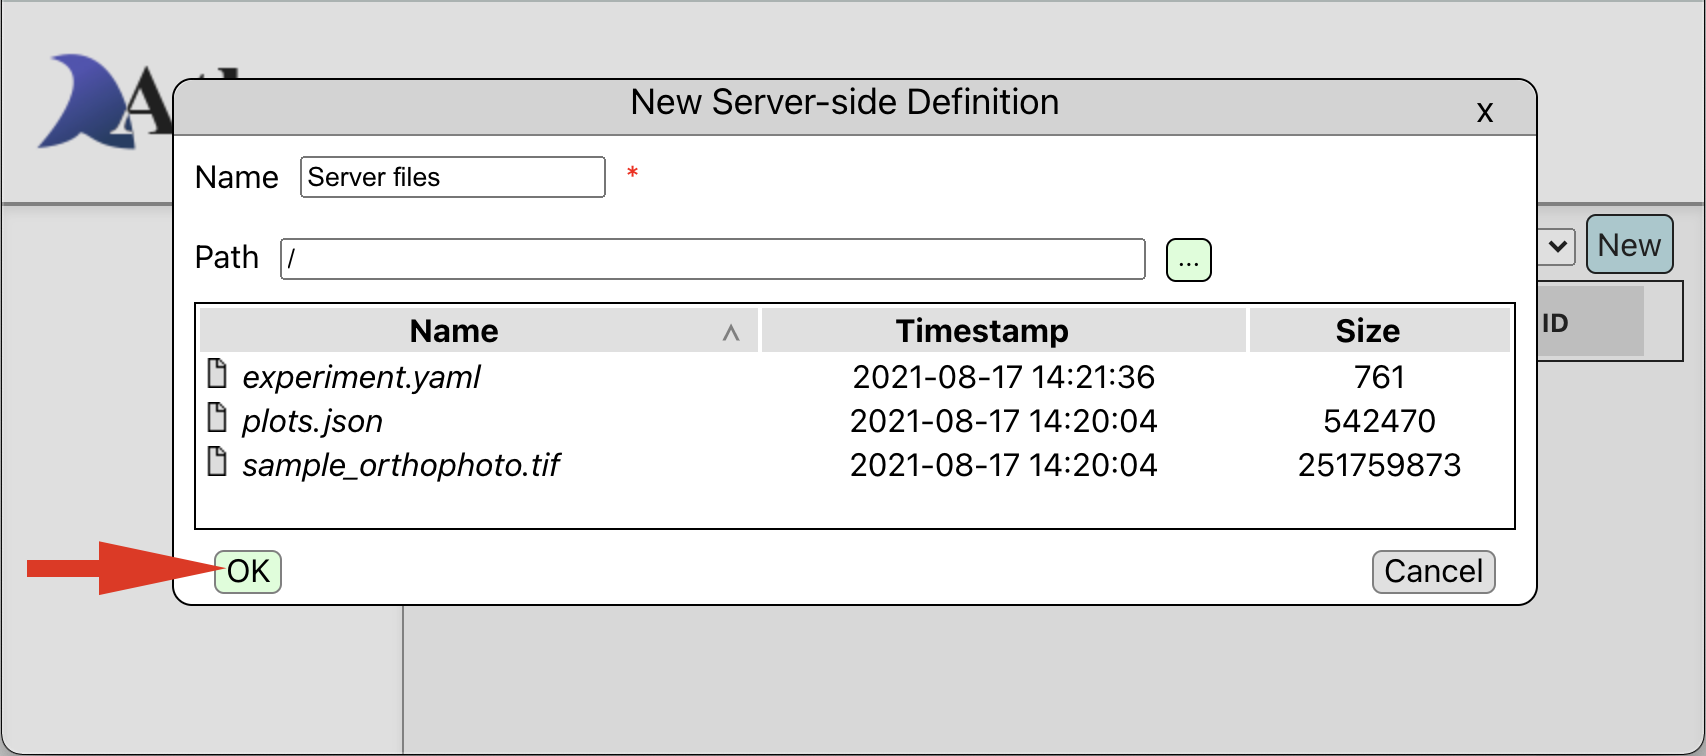
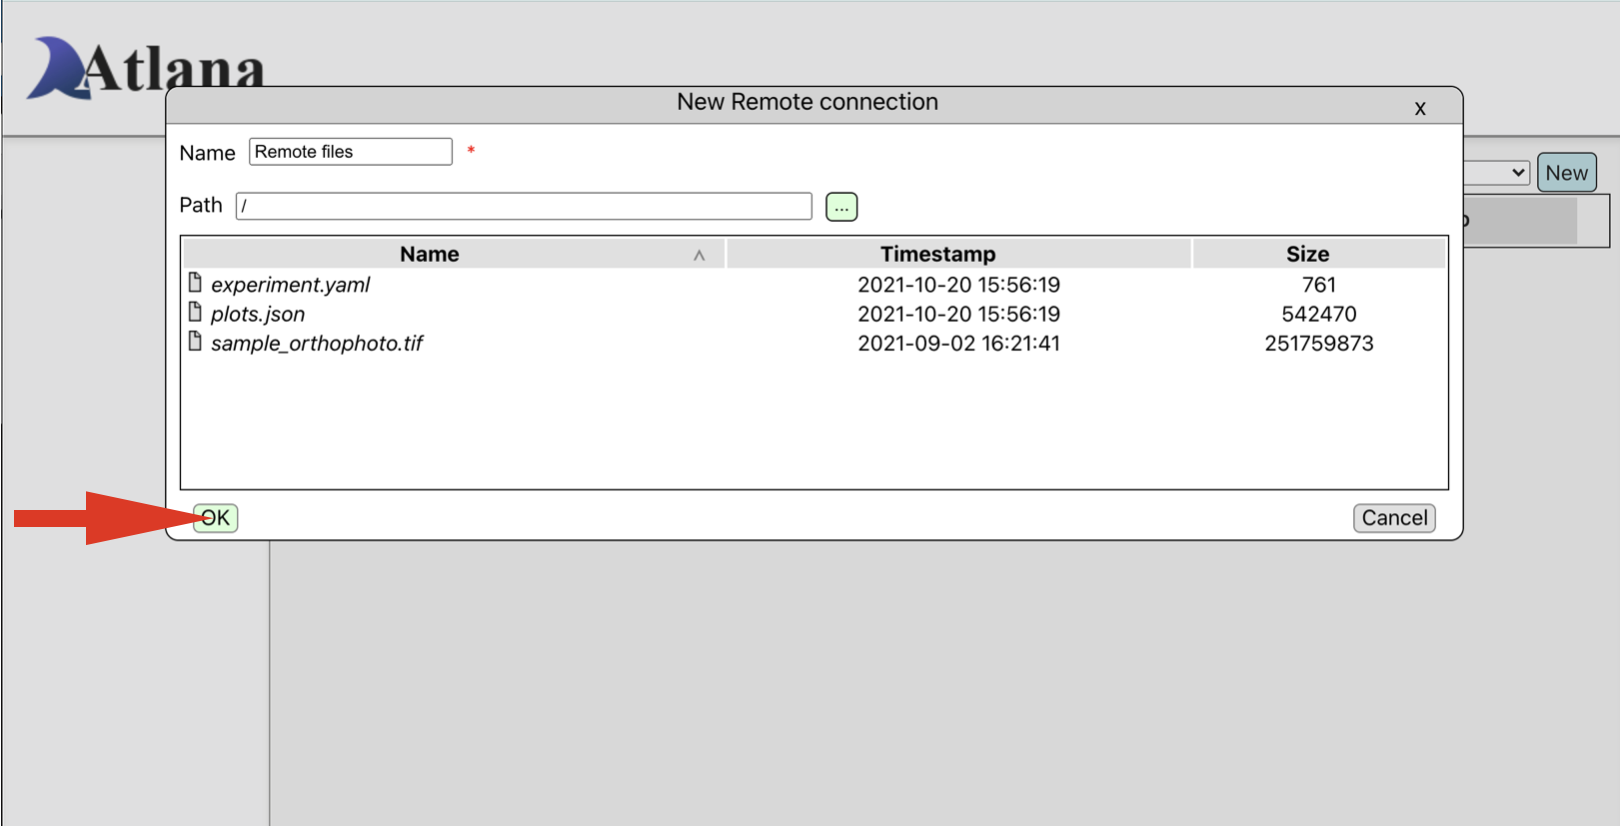
Reworded 'Server Side' to 'Remote'

diff --git a/docs/index.md b/docs/index.md
@@ -68,9 +68,9 @@ You will see the uploaded file on the next step.
 
 <img src="img/configure_files_upload.png" width="450" alt="Click upload files icon" aria-label="Upload files link" title="Click or drag-and-drop to upload files"/>
 
-Next, select "Server Side" from the drop down on the upper right of the page, and click "New" to start defining the folder.
+Next, select "Remote" from the drop down on the upper right of the page, and click "New" to start defining the folder.
 
-<img src="img/configure_files_server_side.png" width="450" alt="Choose dropdown server-side then new" aria-label="Create new server-side definition" title="Create new server-side file configuration"/>
+<img src="img/configure_files_server_side.png" width="450" alt="Choose dropdown remote then new" aria-label="Create new remote definition" title="Create new remote file configuration"/>
 
 This will display a new window showing the uploaded files.
 You may change the name of the definition to something more meaningful.
